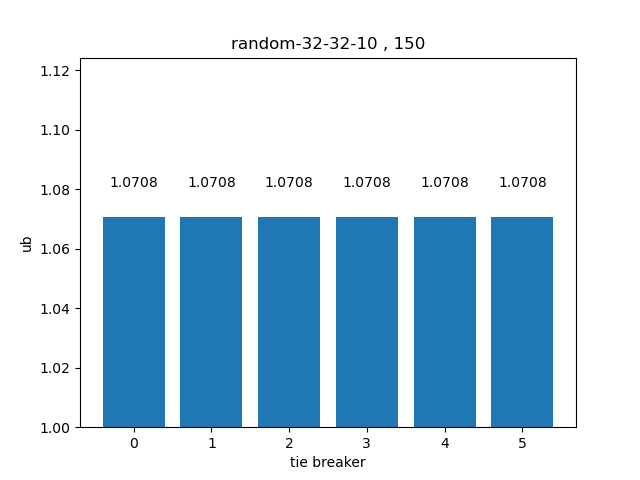
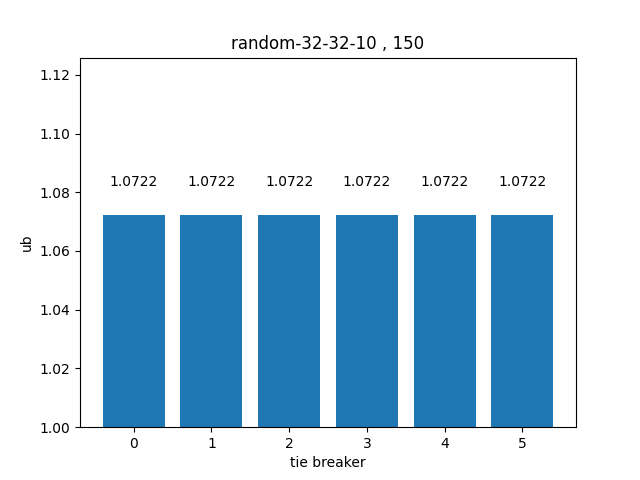
fig4

diff --git a/evaluate/main.py b/evaluate/main.py
@@ -1,6 +1,7 @@
 import subprocess
 import utils
 import matplotlib.pyplot as plt
+import numpy as np
 
 mapDict={0:["corners",4],
          1:["corners2",5],
@@ -27,7 +28,7 @@ mapDict={0:["corners",4],
 
 Candidates=[8,10,11,12,13,14,15,16,17,18,19,20,21]
 #Candidates=[12]
-TieBreakers=['0','1','2','3','4','5']
+TieBreakers=['0','1','2','3','4']
 
 
 # for selected in Candidates:
@@ -80,11 +81,71 @@ TieBreakers=['0','1','2','3','4','5']
 #     # 显示图形
 #     #plt.show()
     
-selected=8
-nums=[50*i for i in range(1,31)]    
-for num in nums:
+# selected=10
+# nums=[50*i for i in range(1,11)]    
+# for num in nums:
+#     print(mapDict[selected][0])
+#     print(num)
+#     costs=[]
+#     lbs=[]
+#     ubs=[]
+#     for tiebreaker in TieBreakers:
+#         # 构建命令
+#         compute = [
+#             'build/main',
+#             '-i', f'assets/{mapDict[selected][0]}.scen',
+#             '-m', f'assets/{mapDict[selected][0]}.map',
+#             '-N', str(num),
+#             '-v', '3',
+#             '-t', '5',
+#             '--no-star',
+#             '--tie-breaker',tiebreaker,
+#         ]
+#         try:
+#             # 运行命令
+#             result_compute = subprocess.run(compute, capture_output=True, text=True, check=True)
+#             # 打印输出
+#             print("标准输出:")
+#             print(result_compute.stdout)
+#             print("标准错误:")
+#             print(result_compute.stderr)
+#             cost,lb,ub=utils.extract_total_cost(result_compute.stdout)
+#             costs.append(cost)
+#             lbs.append(lb)
+#             ubs.append(ub)
+#         except subprocess.CalledProcessError as e:
+#             print(f"命令执行失败: {e}")
+#             print(f"返回码: {e.returncode}")
+#             print(f"标准错误: {e.stderr}")
+#             break
+#     if len(ubs)==0:
+#         break
+#     x = list(range(len(ubs)))
+#     # 绘制柱状图
+#     plt.bar(x, ubs)
+#     # 添加标题和标签
+#     title=f'{mapDict[selected][0]} , {num}'
+#     plt.title(title)
+#     plt.xlabel('tie breaker')
+#     plt.ylabel('ub')
+#     plt.ylim(bottom=1)
+#     for i in range(len(ubs)):
+#         plt.text(i, ubs[i]+0.01, str(round(ubs[i],4)), ha='center')
+#     plt.savefig(f'evaluate/fig2/{title}.png')
+#     plt.clf()
+#     # 显示图形
+#     #plt.show()
+
+TieBreakers=['0','4']
+selected=15
+num=1500
+seeds=[i for i in range(10)]
+average_ubs=np.array([0 for _ in range(len(TieBreakers))])
+fail={'0':0,'4':0}
+for seed in seeds:
     print(mapDict[selected][0])
     print(num)
+    print(seed)
     costs=[]
     lbs=[]
     ubs=[]
@@ -99,6 +160,7 @@ for num in nums:
             '-t', '5',
             '--no-star',
             '--tie-breaker',tiebreaker,
+            '-s',str(seed),
         ]
         try:
             # 运行命令
@@ -112,6 +174,8 @@ for num in nums:
             costs.append(cost)
             lbs.append(lb)
             ubs.append(ub)
+            if ub<1:
+                fail[tiebreaker]=fail[tiebreaker]+1
         except subprocess.CalledProcessError as e:
             print(f"命令执行失败: {e}")
             print(f"返回码: {e.returncode}")
@@ -119,18 +183,9 @@ for num in nums:
             break
     if len(ubs)==0:
         break
-    x = list(range(len(ubs)))
-    # 绘制柱状图
-    plt.bar(x, ubs)
-    # 添加标题和标签
-    title=f'{mapDict[selected][0]} , {num}'
-    plt.title(title)
-    plt.xlabel('tie breaker')
-    plt.ylabel('ub')
-    plt.ylim(bottom=1)
-    for i in range(len(ubs)):
-        plt.text(i, ubs[i]+0.01, str(round(ubs[i],4)), ha='center')
-    plt.savefig(f'evaluate/fig2/{title}.png')
-    plt.clf()
-    # 显示图形
-    #plt.show()
+    average_ubs=average_ubs+np.array(ubs)
+    title=f'{mapDict[selected][0]} , num = {num} , seed = {seed}'
+    utils.plot_ub(ubs,title)
+average_ubs[0]=average_ubs[0]/(len(seeds)-fail["0"])
+average_ubs[1]=average_ubs[1]/(len(seeds)-fail["4"])
+utils.plot_ub(average_ubs,f'{mapDict[selected][0]} , num = {num} , seed = average({len(seeds)})',save_fig=True)

diff --git a/evaluate/utils.py b/evaluate/utils.py
@@ -1,11 +1,14 @@
 import subprocess
 import re
+import matplotlib.pyplot as plt
 
 def extract_total_cost(log:str):
     match = re.search(r'sum_of_costs:\s*(\d+)\s*\(lb=(\d+),\s*ub=([\d.]+)\)', log)
     sum_of_costs = float(match.group(1))
     lb = float(match.group(2))
-    ub = sum_of_costs/lb
+    ub = 0
+    if lb!=0:
+        ub = sum_of_costs/lb
     return sum_of_costs,lb,ub
 
 def visualize(map:str):
@@ -15,3 +18,22 @@ def visualize(map:str):
         f'./build/result.txt'
     ]
     result_visualize = subprocess.run(visualize, capture_output=True, text=True, check=True)
+    
+def plot_ub(ubs,title,save_fig=False,show_fig=False):
+    x = list(range(len(ubs)))
+    # 绘制柱状图
+    plt.bar(x, ubs)
+    # 添加标题和标签
+    plt.title(title)
+    plt.xlabel('tie breaker')
+    plt.ylabel('ub')
+    plt.ylim(bottom=1)
+    for i in range(len(ubs)):
+        plt.text(i, ubs[i]+0.01, str(round(ubs[i],4)), ha='center')
+    if save_fig:
+        plt.savefig(f'evaluate/fig4/{title}.png')
+    # 显示图形
+    if show_fig:
+        plt.show()
+    plt.clf()
+

diff --git a/lacam3/src/pibt.cpp b/lacam3/src/pibt.cpp
@@ -97,9 +97,6 @@ bool PIBT::funcPIBT(const int i, const Config &Q_from, Config &Q_to,const int in
     case 4:
       break_tie=(occupied_now[u->id]==NO_AGENT&&occupied_next[u->id]==NO_AGENT&&current_idx-index!=u->index-current_idx)?0.0:1.0;
       break;
-    case 5:
-      break_tie=(occupied_now[u->id]==NO_AGENT&&occupied_next[u->id]==NO_AGENT&&current_idx-index!=u->index-current_idx&&index!=-1)?0.0:1.0;
-      break;
     }
     tie_breakers[u->id] = (get_random_float(MT)+break_tie)*0.5;
   }
